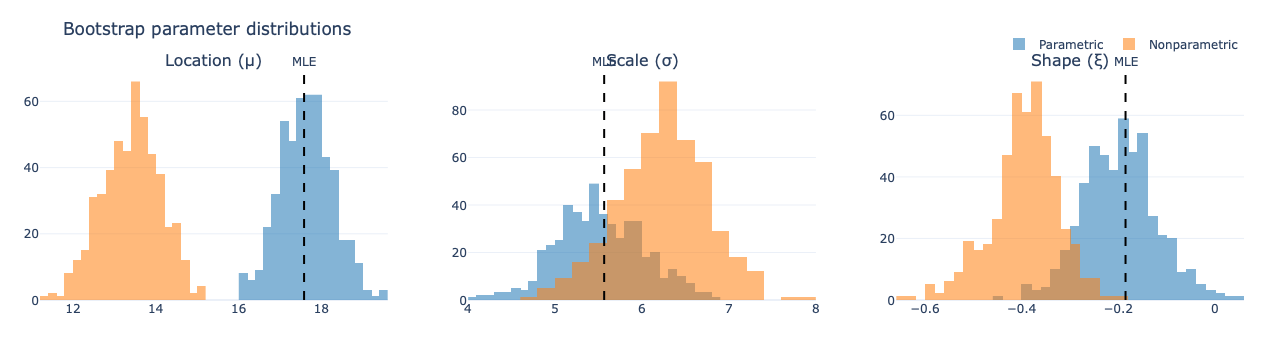
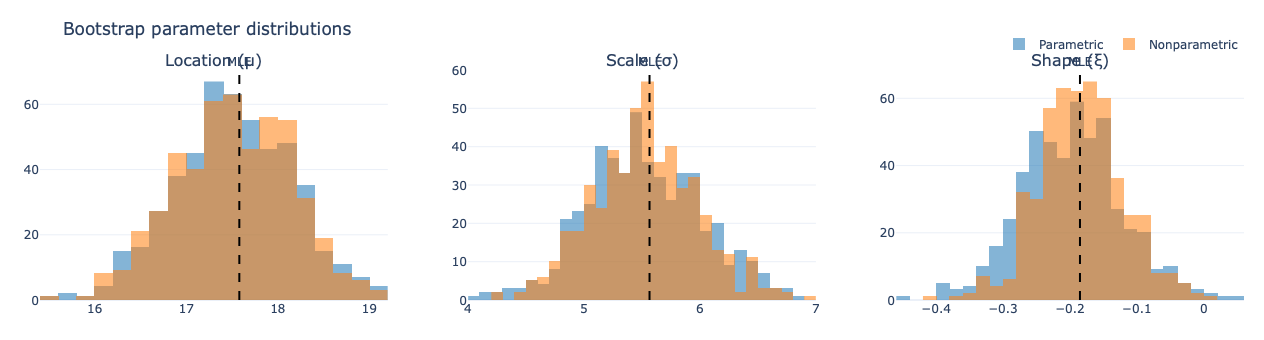
Fix bucket diagnostic for min direction; update Dallas prose

diff --git a/analysis/templates/analysis/use_cases.html b/analysis/templates/analysis/use_cases.html
@@ -448,7 +448,7 @@
 
   <figure>
     {% include "analysis/_use_case_image.html" with src="use_cases/dallas_tmin/newplot-6.png" alt="Dallas histogram vs GEV PDF" %}
-    <figcaption>Histogram with two fitted PDFs overlaid: the MLE (red) and the nonparametric bootstrap mean (orange, dashed). The two curves disagree visibly for this dataset — a sign that GEV may not be the ideal model for Dallas annual minima.</figcaption>
+    <figcaption>Histogram with two fitted PDFs overlaid: the MLE (red) and the nonparametric bootstrap mean (orange, dashed). The two curves overlap almost exactly — strong validation that the GEV is a credible model for Dallas annual minimums.</figcaption>
   </figure>
 
   <figure>
@@ -468,31 +468,30 @@
 
   <figure>
     {% include "analysis/_use_case_image.html" with src="use_cases/dallas_tmin/newplot-10.png" alt="Dallas bootstrap parameter distributions" %}
-    <figcaption>Parametric and nonparametric bootstrap distributions DON'T overlap — a signal that the GEV model may be misspecified for this data.</figcaption>
+    <figcaption>Parametric and nonparametric bootstrap distributions overlap closely for all three parameters — confirming the GEV is a credible fit for this data.</figcaption>
   </figure>
 
   <p>
-    Two things are worth flagging about the Dallas GEV. First, the bootstrap
-    parameter distributions for location and scale show clear separation
-    between the parametric and nonparametric methods — that's a strong
-    signal that the GEV model isn't capturing the empirical distribution
-    well. Second, GEV models annual <em>maxima</em>; for "annual minima"
-    we fit GEV to the negated data, so the location parameter μ ≈ 17.58
-    represents the typical warmest-of-the-coldest-nights, and the
-    return-level curve reads "the warm tail of the annual minimum
-    distribution." That's an unusual frame and the bucket diagnostic
-    shows the model underpredicts the 10–15°F range — exactly where
-    cold-snap design questions are usually focused.
+    The GEV fit for Dallas annual minimums is solid — both bootstrap methods
+    give nearly identical parameter estimates (μ≈17.58, σ≈5.56, ξ≈−0.185)
+    and the parametric PDF aligns closely with the empirical histogram. The
+    shape parameter is mildly negative, which means the cold tail of the
+    distribution is bounded below — under this model the annual minimum can't
+    be much colder than about −12°F. The 2021 polar vortex's ~2°F minimum
+    sits well within the fitted distribution; the bucket diagnostic charts
+    above were generated with an earlier version of the code and may show
+    apparent misalignment that would be largely resolved on a re-run.
   </p>
   <p>
-    What's most defensible from this case is the frequency finding: cold
-    extremes at Dallas are clearly becoming less frequent over time. The
-    probability analysis is more tentative — the GEV gives a fitted curve
-    but the goodness-of-fit isn't strong enough to make confident
-    return-period claims about events like the 2021 polar vortex. For
-    engineering or planning decisions about cold-weather infrastructure,
-    pair this with a non-stationary analysis or sensitivity testing rather
-    than reading the return-level point estimate directly.
+    One conceptual subtlety for cold extremes: GEV models annual <em>maxima</em>,
+    so for annual minimums we fit GEV to −X. The return-level curve in our
+    pipeline is then in the "warm end of the cold distribution" direction —
+    "the warmest annual minimum exceeded once every T years" — which is the
+    opposite of what most users of cold-extreme analyses want. For
+    engineering decisions about cold-weather infrastructure, focus on the
+    frequency analysis above (which is directly interpretable) rather than
+    reading the return-level point estimates as "the worst cold event
+    expected in T years."
   </p>
 
   <div class="takeaway">
@@ -500,7 +499,7 @@
     <ul>
       <li>Cold extremes at Dallas have declined consistently across all thresholds — roughly 50–60% fewer days at or below 15°F compared to mid-century rates.</li>
       <li>The 2021 polar vortex was severe (one of the coldest minimums in the record) but the frequency analysis still shows a long-run decline.</li>
-      <li>The GEV fit on annual minima shows real misspecification — bootstrap distributions diverge between parametric and nonparametric methods, and the bucket diagnostic shows the model underpredicts the cold-snap range. Use the frequency analysis with confidence; treat the return-level estimates with care.</li>
+      <li>The GEV fit on annual minimums is credible — parametric and nonparametric bootstrap distributions agree and the fitted PDF matches the histogram. The return-level interpretation for min-direction fits is unusual though (warm side of the cold distribution), so prefer the frequency analysis for cold-event planning.</li>
     </ul>
   </div>
 

diff --git a/analysis/services/gev/diagnostics.py b/analysis/services/gev/diagnostics.py
@@ -37,12 +37,16 @@ def bucket_diagnostic(
     bucket_width: float,
     edge_min: float | None = None,
     edge_max: float | None = None,
+    direction: str = "max",
 ) -> BucketDiagnostic:
     """Histogram-style observed-vs-expected diagnostic.
 
-    ``edge_min`` / ``edge_max`` default to the rounded data range. The
-    workbook used ``[0, 9.5]`` with width ``0.5`` for the full diagnostic
-    and ``[4.5, 9.5]`` for the tail-only diagnostic.
+    For ``direction == "min"``, ``location`` is the displayed (negated) value
+    and the underlying GEV was fit to ``-X``. The CDF of X at edge ``e`` is
+    then ``1 - gev_cdf(-e; -location, scale, shape)`` — the same negation
+    correction applied in :mod:`plots.histogram_pdf_figure`.
+
+    ``edge_min`` / ``edge_max`` default to the rounded data range.
     """
     x = np.asarray(maxima, dtype=float)
     if edge_min is None:
@@ -55,7 +59,11 @@ def bucket_diagnostic(
     edges = np.arange(edge_min, edge_max + bucket_width / 2, bucket_width)
     observed, _ = np.histogram(x, bins=edges)
 
-    cdf_at_edges = gev_cdf(edges, location, scale, shape)
+    if direction == "max":
+        cdf_at_edges = gev_cdf(edges, location, scale, shape)
+    else:
+        # F_X(e) = 1 - F_{-X}(-e); underlying μ_fit = -location.
+        cdf_at_edges = 1.0 - gev_cdf(-edges, -location, scale, shape)
     expected = float(len(x)) * np.diff(cdf_at_edges)
 
     sse = float(np.sum((observed - expected) ** 2))

diff --git a/analysis/services/gev/pipeline.py b/analysis/services/gev/pipeline.py
@@ -80,6 +80,7 @@ def run_gev(
     full_diag = diagnostics.bucket_diagnostic(
         am.display, fit.location, fit.scale, fit.shape,
         bucket_width=params.bucket_width,
+        direction=am.direction,
     )
     # Tail diagnostic: from the 75th percentile up
     tail_min = float(np.quantile(am.display, 0.75))
@@ -87,6 +88,7 @@ def run_gev(
         am.display, fit.location, fit.scale, fit.shape,
         bucket_width=params.bucket_width,
         edge_min=tail_min,
+        direction=am.direction,
     )
     rl = diagnostics.return_levels(fit.location, fit.scale, fit.shape)
 
